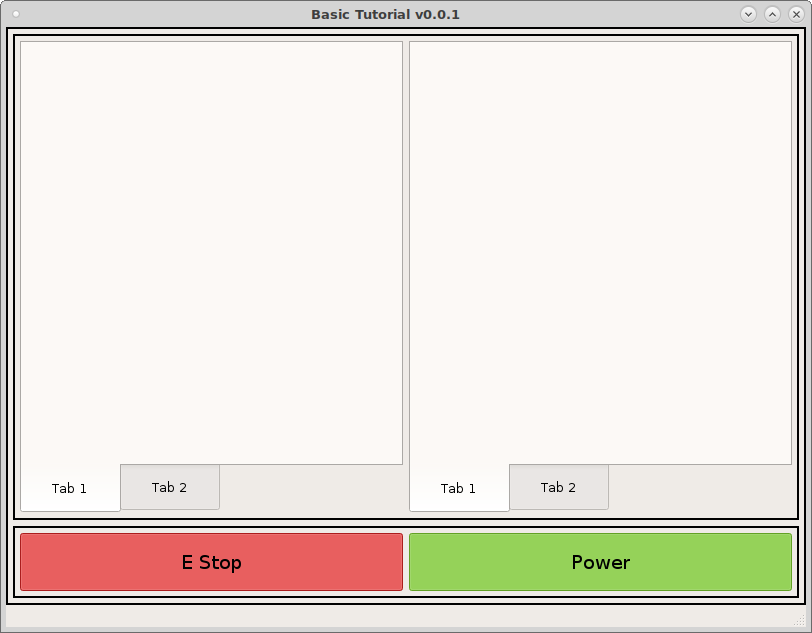
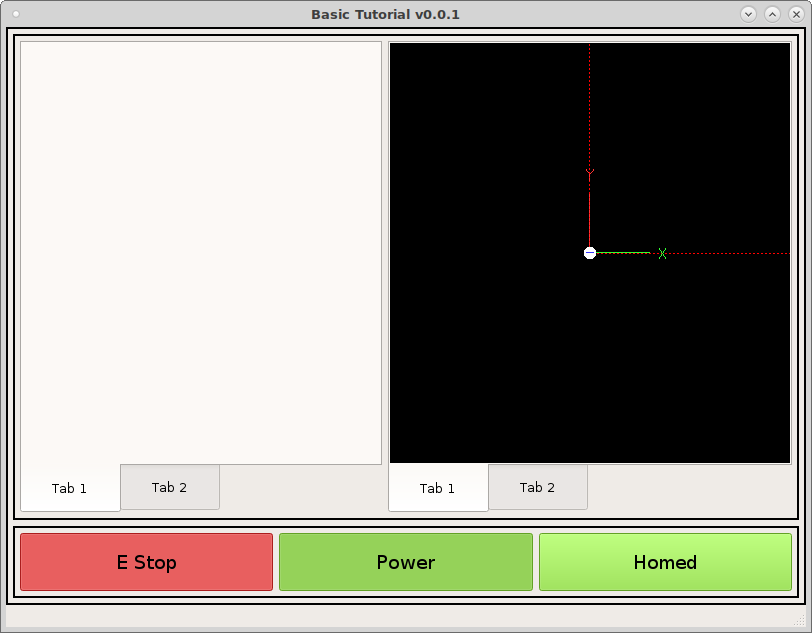
DOC: add more to new tutorial

diff --git a/docs/source/tutorials/basic_vcp_03.rst b/docs/source/tutorials/basic_vcp_03.rst
@@ -2,23 +2,63 @@
 Machine Controls
 ================
 
-Start by dragging a couple of action buttons in the bottom frame. We want all
-buttons in this frame to have a minimum height and width of 50 pixels so in the
-stylesheet for the frame put the following.::
+Start by dragging a three of action buttons in the bottom frame. We want all
+buttons in this frame to have a minimum height and width of 50 pixels and the
+font size to be 14pt so in the stylesheet for the frame put the following.::
 
     .ActionButton {
         min-height: 50px;
         min-width: 50px;
+        font: 14pt "DejaVu Sans";
     }
 
 .. image:: images/vcp1-designer-08.png
    :align: center
    :scale: 40 %
 
-Now add ``machine.estop.toggle`` to the left button `actionName` and ``machine.power.toggle`` to the right button `actionName`. Add text to each
-button and change the font size to 14. Make sure you check off the `checkable`
-box for both buttons, this makes them a toggle button. Now when we run the VCP
-you can see the buttons in action.
+From left to right add the following to the `actionName` of each button::
+
+    machine.estop.toggle
+    machine.power.toggle
+    machine.home.all
+
+
+Name the left button `E Stop` and the middle button `Power`. The `Home All`
+button will get its name from the rule.
+
+Make sure you check off the `checkable` box for E Stop and Power buttons, this
+makes them a toggle button.
+
+Now we need to add a couple of rules to the right `Home All` button. The first
+rule will set the text of the button based on if all the joints are homed or
+not. Double click on the button to open the `Rules Editor` and add a new rule.
+The `Property` is Text. Add three channels with the following and make sure
+`Trigger` is checked in each one.::
+
+    status:joint[0].homed
+    status:joint[1].homed
+    status:joint[2].homed
+
+The expression to change the text of the button is::
+
+    'Homed' if ch[0] and ch[1] and ch[2] else 'Home\nAll'
+
+Notice that 'Home\\nAll' has a new line character `\\n` in it.
+
+.. image:: images/vcp1-designer-09.png
+   :align: center
+   :scale: 40 %
+
+The second rule will have the same channels with the following expression::
+
+    "background-color:rgb(138, 226, 52)" if ch[0] and ch[1] and ch[2] else ''
+
+.. image:: images/vcp1-designer-10.png
+   :align: center
+   :scale: 40 %
+
+Now when we run the VCP you can see the buttons in
+action.
 
 .. image:: images/vcp1-run-04.png
    :align: center
@@ -35,7 +75,7 @@ machine.estop.toggle.::
     }
 
 Now lets add the rest of the machine buttons so add five more `ActionButtons` to
-the right of the Power button and name them Run, Step, Pause, Resume, and Abort.
+the right of the Home button and name them Run, Step, Pause, Resume, and Abort.
 
 The `actionNames` are::
 
@@ -51,3 +91,4 @@ Now we have the machine buttons complete.
    :align: center
    :scale: 60 %
 
+The program buttons will not be enabled until we load a program.

diff --git a/docs/source/tutorials/basic_vcp_04.rst b/docs/source/tutorials/basic_vcp_04.rst
@@ -2,18 +2,34 @@
 Home Controls
 =============
 
-In our left tab1 lets add some home controls, drad a grid layout into the tab
+In our left tab1 lets add some home controls, drag a grid layout into the tab
 then right click in the tab (not the grid layout) and select layout in a grid.
 This will cause the grid layout to fill the tab.
 
-.. image:: images/vcp1-designer-09.png
+.. image:: images/vcp1-designer-11.png
    :align: center
    :scale: 40 %
 
-Make the same changes to the frame as before, box frame, line width 2, margins
-5.
+Make the same changes to the frame as before morph into QFrame, box frame,
+line width 2, margins 5.
 
-.. image:: images/vcp1-designer-10.png
+.. image:: images/vcp1-designer-12.png
+   :align: center
+   :scale: 40 %
+
+Repeat for the right hand tab.
+
+Now back in the left tab we want the buttons to be 50 x 50 px so open the
+stylesheet for the grid layout and add the following::
+
+    .ActionButton {
+        min-height: 50px;
+        min-width: 50px;
+        max-height: 50px;
+        max-width: 50px;
+    }
+
+.. image:: images/vcp1-designer-13.png
    :align: center
    :scale: 40 %
 
